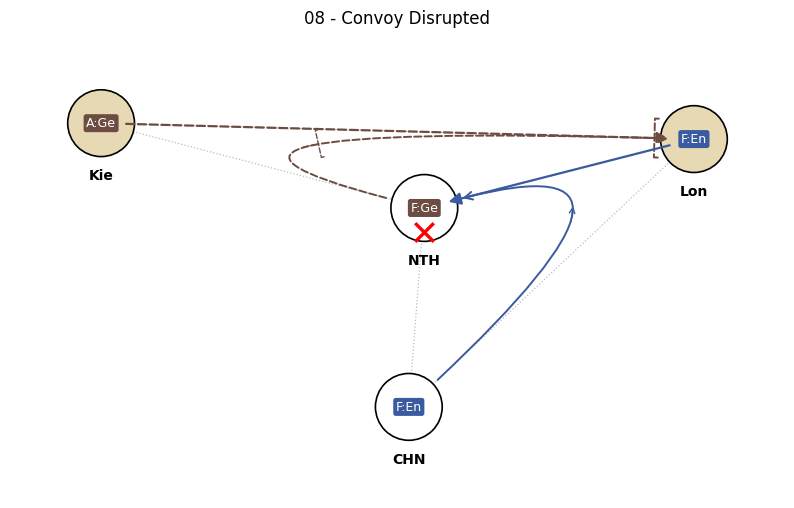
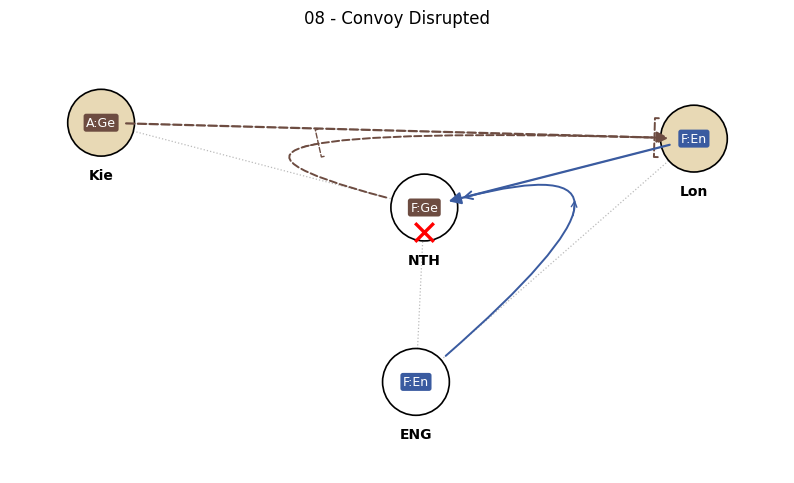
feat(dwex): layout-fill now stretches + Lloyd-relaxes (Voronoi centroids) — evens dense clusters; clustered example 18; re-render drifted example PNGs

diff --git a/project/dipworkpy/tools/dwex/render_png.py b/project/dipworkpy/tools/dwex/render_png.py
@@ -7,6 +7,7 @@ import math
 from pathlib import Path
 from typing import Dict, Tuple
 import matplotlib
+import numpy as np
 
 matplotlib.use("Agg")
 import matplotlib.pyplot as plt
@@ -73,21 +74,60 @@ _DEFAULT_JITTER = 0.2
 
 
 def _fill_positions(doc: DwexDocument) -> Dict[str, Tuple[float, float]]:
-    """`layout-fill`: stretch the given node coordinates anisotropically so
-    the nodes fill the whole figure area, keeping their relative layout
-    (unlike a force-directed relayout, the map topology stays readable).
+    """`layout-fill`: stretch + Lloyd relaxation so the nodes fill the whole
+    figure area evenly.
 
-    Target box matches the figsize (10x7) minus a small margin. Degenerate
-    axes (all nodes on one line) keep their single coordinate.
+    1. The document's coordinates are stretched anisotropically into the
+       target box (figsize minus margin) — the map shape is the starting
+       configuration.
+    2. A bounded Lloyd relaxation (centroidal Voronoi, grid-approximated)
+       then moves every node toward the centroid of its Voronoi cell:
+       dense clusters spread into empty space while the cell adjacency —
+       and with it the map's topology — is preserved (small steps keep
+       cells from swapping). The result is an even, blue-noise-like
+       distribution with no empty regions.
+
+    Fully deterministic (no randomness). Degenerate axes (all nodes on one
+    line) keep their single coordinate; <3 nodes skip the relaxation.
     """
     width, height = 9.2, 6.2
+    margin = 0.4
     xs = [f.x for f in doc.fields]
     ys = [f.y for f in doc.fields]
     x0, x1 = min(xs), max(xs)
     y0, y1 = min(ys), max(ys)
-    sx = width / (x1 - x0) if x1 > x0 else 1.0
-    sy = height / (y1 - y0) if y1 > y0 else 1.0
-    return {f.name: (0.4 + (f.x - x0) * sx, 0.4 + (f.y - y0) * sy) for f in doc.fields}
+    sx = (width - 2 * margin) / (x1 - x0) if x1 > x0 else 1.0
+    sy = (height - 2 * margin) / (y1 - y0) if y1 > y0 else 1.0
+    names = [f.name for f in doc.fields]
+    pos = {n: (margin + (f.x - x0) * sx, margin + (f.y - y0) * sy) for n, f in zip(names, doc.fields)}
+    if len(names) < 3:
+        return pos
+
+    pts = np.array([pos[n] for n in names])
+    # coarse grid approximating the canvas area (Voronoi via nearest-node)
+    gx, gy = np.meshgrid(
+        np.linspace(margin, width - margin, 46),
+        np.linspace(margin, height - margin, 31),
+    )
+    cells = np.stack([gx.ravel(), gy.ravel()], axis=1)
+
+    for _ in range(12):
+        d2 = ((cells[:, None, :] - pts[None, :, :]) ** 2).sum(axis=2)
+        assign = d2.argmin(axis=1)
+        sums = np.zeros_like(pts)
+        counts = np.zeros(len(pts))
+        np.add.at(sums, assign, cells)
+        np.add.at(counts, assign, 1)
+        with np.errstate(invalid="ignore", divide="ignore"):
+            targets = np.where(counts[:, None] > 0, sums / counts[:, None], pts)
+        new = pts + (targets - pts) * 0.5
+        new[:, 0] = np.clip(new[:, 0], margin, width - margin)
+        new[:, 1] = np.clip(new[:, 1], margin, height - margin)
+        if float(np.abs(new - pts).max()) < 0.01:
+            pts = new
+            break
+        pts = new
+    return {n: (float(p[0]), float(p[1])) for n, p in zip(names, pts)}
 
 
 def _jitter(name: str, amount: float = _DEFAULT_JITTER) -> Tuple[float, float]:

diff --git a/project/doc/EXAMPLES.md b/project/doc/EXAMPLES.md
@@ -527,7 +527,7 @@ pragmas {
 
 ## 18 — Pragma layout-fill
 
-Eighteen nodes on a wide, flat strip (5 x 2 grid, aspect 2.5:1).
+Twenty nodes with an intentionally UNEVEN source layout: ten are
 
 ![18 — Pragma layout-fill](examples/dwex/18_pragma_layout_fill.png)
 
@@ -536,66 +536,66 @@ Eighteen nodes on a wide, flat strip (5 x 2 grid, aspect 2.5:1).
 ```
 @dwex
 title: 18 — Pragma layout-fill
-desc:  Eighteen nodes on a wide, flat strip (5 x 2 grid, aspect 2.5:1).
-       Without the pragma the board letterboxes into a short, wide image.
-       With layout-fill the coordinates are stretched anisotropically so
-       the nodes fill the whole figure area; the relative layout (which
-       field neighbours which) is preserved.
+desc:  Twenty nodes with an intentionally UNEVEN source layout: ten are
+       crammed into the left third, ten are spread over the rest. Without
+       the pragma the left cluster renders dense and unreadable. With
+       layout-fill the coordinates are first stretched, then a bounded
+       Lloyd relaxation moves every node toward its Voronoi-cell centroid:
+       the cluster spreads into the empty space while the neighborhood
+       structure (who borders whom) is preserved.
 
 map {
   A01 L 0,0
-  A02 L 1,0
-  A03 L 2,0
-  A04 L 3,0
-  A05 L 4,0
-  B01 L 0,1
-  B02 L 1,1
-  B03 L 2,1
-  B04 L 3,1
-  B05 L 4,1
-  C01 O 0,2
-  C02 O 1,2
-  C03 O 2,2
-  C04 O 3,2
-  C05 O 4,2
-  D01 L 0,3
-  D02 L 1,3
-  D03 L 2,3
-  D04 L 3,3
-  D05 L 4,3
+  A02 L 0.5,0.1
+  A03 L 0.1,0.5
+  A04 L 0.6,0.6
+  A05 L 0.3,0.3
+  A06 L 0.2,0.8
+  A07 L 0.7,0.2
+  A08 L 0.4,0.9
+  A09 L 0.6,0.4
+  A10 L 0.1,0.2
+  B01 L 2,0.2
+  B02 L 3,0.1
+  B03 L 2.5,0.8
+  B04 L 3.5,0.6
+  B05 L 4,0.3
+  C01 O 2,-0.5
+  C02 O 3.2,-0.6
+  C03 O 4.2,-0.4
+  D01 L 2,1.4
+  D02 L 3.4,1.5
   A01 -- A02
-  A02 -- A03
-  A03 -- A04
-  A04 -- A05
-  A01 -- B01
-  A02 -- B02
-  A03 -- B03
-  A04 -- B04
-  A05 -- B05
+  A02 -- A05
+  A05 -- A03
+  A05 -- A09
+  A03 -- A10
+  A09 -- A04
+  A04 -- A07
+  A03 -- A06
+  A06 -- A08
+  A08 -- A09
+  A02 -- A07
+  A10 -- A02
+  A01 -- A10
+  A01 -- A06
+  A05 -- A04
+  A06 -- A09
   B01 -- B02
-  B02 -- B03
-  B03 -- B04
+  B01 -- B03
+  B02 -- B04
   B04 -- B05
-  B01 -- C01
-  B02 -- C02
-  B03 -- C03
-  B04 -- C04
-  B05 -- C05
+  B03 -- B04
   C01 -- C02
   C02 -- C03
-  C03 -- C04
-  C04 -- C05
-  C01 -- D01
-  C02 -- D02
-  C03 -- D03
-  C04 -- D04
-  C05 -- D05
+  B01 -- C01
+  B02 -- C02
+  B05 -- C03
+  B03 -- D01
+  B04 -- D02
   D01 -- D02
-  D02 -- D03
-  D03 -- D04
-  D04 -- D05
-  A01 -- B02
-  A05 -- B04
+  A07 -- B01
+  A04 -- B03
 }
 
 units {
@@ -603,15 +603,15 @@ units {
   Ge A A05
   En A B03
   Fr A D01
-  It A D05
+  It A C02
 }
 
 orders {
-  Au A A01 mve B02
-  Ge A A05 mve B04 !
-  En A B03 mve C03
+  Au A A01 mve A10
+  Ge A A05 mve A09 !
+  En A B03 mve B04
   Fr A D01 msup En
-  It A D05 hld
+  It A C02 hld
 }
 
 pragmas {

diff --git a/project/doc/DWEX-language.md b/project/doc/DWEX-language.md
@@ -193,7 +193,7 @@ Currently used pragmas:
 |--------|--------|
 | `no-mid-arrows` | Suppress midpoint arrows on support/convoy curves |
 | `field-jitter(<float>)` | Tune random-looking deterministic field label/unit offset |
-| `layout-fill` | Stretch the node coordinates so the nodes fill the whole figure area (keeps relative layout/map topology; best for dense boards, e.g. >15 nodes) |
+| `layout-fill` | Stretch the node coordinates over the whole figure area, then a bounded Lloyd relaxation (Voronoi-cell centroids) evens out dense clusters; the neighborhood structure is preserved. Best for dense boards (>15 nodes) |
 
 ## Generation and tests
 
